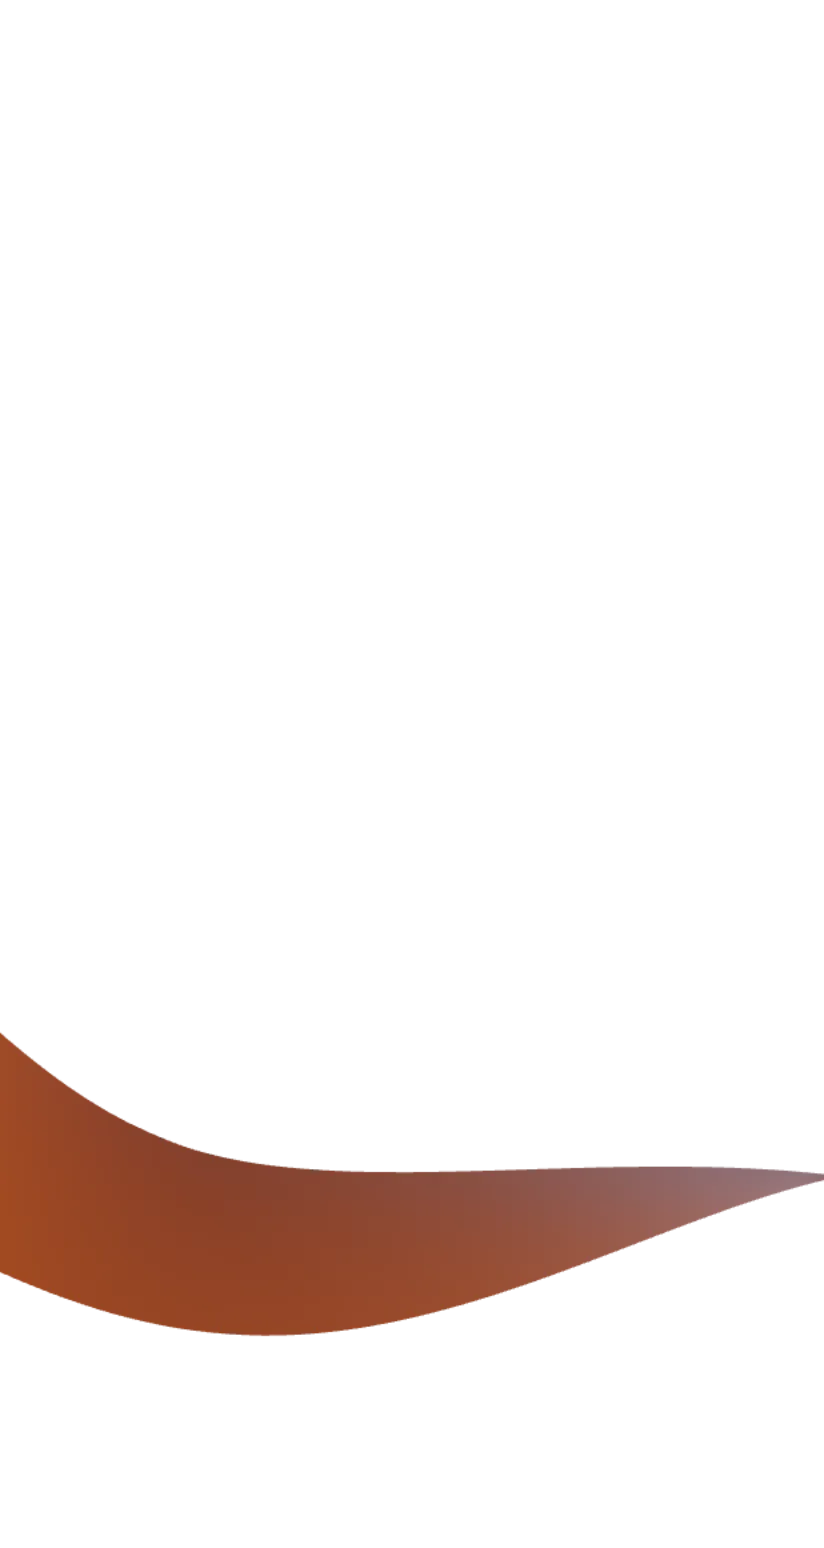
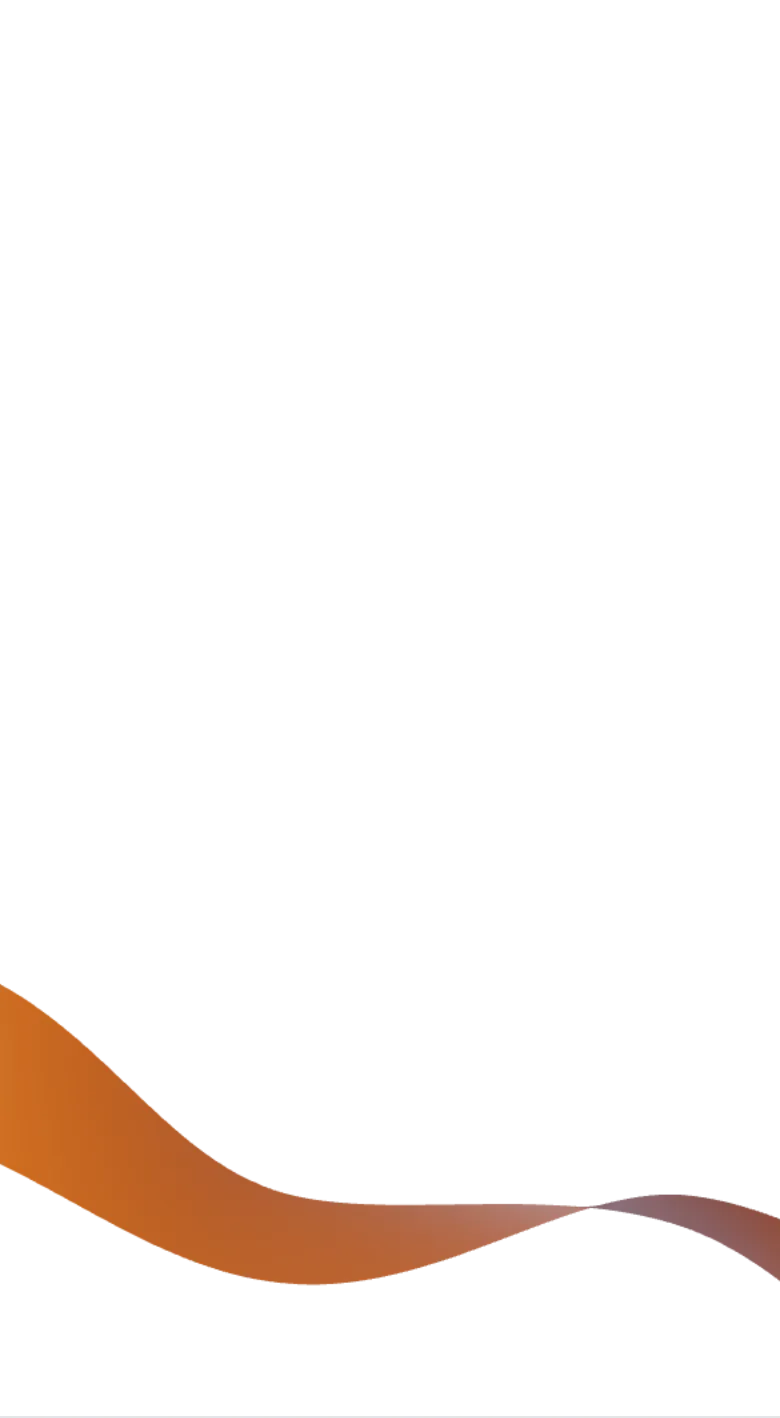
fix(hero): cadrage mobile du ruban et nouvelle image fixe
Sur écran étroit la caméra ne voyait qu'une tranche sombre du ruban. Caméra reculée
(z 34) et ruban abaissé : il ondule sous les liens du hero. L'image fixe est recapturée
à cet instant (9,7 Ko).

Claude-Session: https://claude.ai/code/session_01FL63kMSJgoybxKGzc7XoMd

Changed region(s): [[0.0, 0.6516, 1.0, 0.9309], [0.0, 0.9929, 1.0, 1.0], [0.7692, 0.8378, 1.0, 0.8999]]

diff --git a/js/ribbon.js b/js/ribbon.js
@@ -114,8 +114,9 @@
     renderer.setSize(w, h, false);
     camera.aspect = w / h; camera.updateProjectionMatrix();
     var narrow = w < 700;
-    camera.position.z = narrow ? 20 : 16;
-    scene.position.set(narrow ? 0.5 : 0, narrow ? -0.4 : -0.6, 0);
+    // Écran étroit : caméra reculée, le ruban ondule sous les liens du hero au lieu d'en montrer une tranche.
+    camera.position.z = narrow ? 34 : 16;
+    scene.position.set(narrow ? 0.5 : 0, narrow ? -4.2 : -0.6, 0);
     scene.rotation.z = narrow ? -0.25 : 0;
     if (reduce) { build(0); renderer.render(scene, camera); }
   }

diff --git a/index.html b/index.html
@@ -75,7 +75,7 @@
 
 <header class="hero" id="hero">
   <canvas id="ribbon" aria-hidden="true"></canvas>
-  <img class="hero-still" src="img/ribbon-m.webp" alt="" width="824" height="1548" fetchpriority="low" decoding="async">
+  <img class="hero-still" src="img/ribbon-m.webp" alt="" width="780" height="1418" fetchpriority="low" decoding="async">
   <div class="hero-fallback" aria-hidden="true"></div>
   <div class="wrap claim" id="top">
     <h1>Je construis des outils qui règlent de vrais problèmes.</h1>
